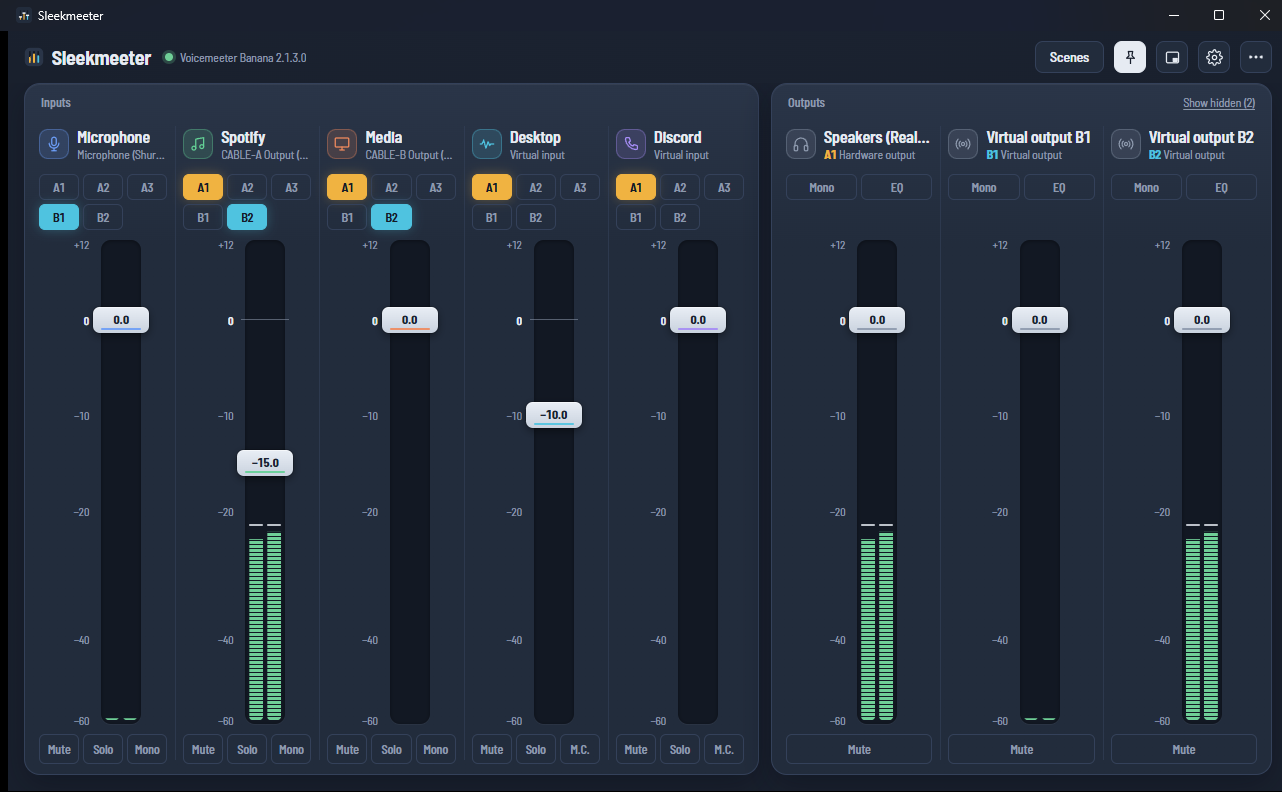
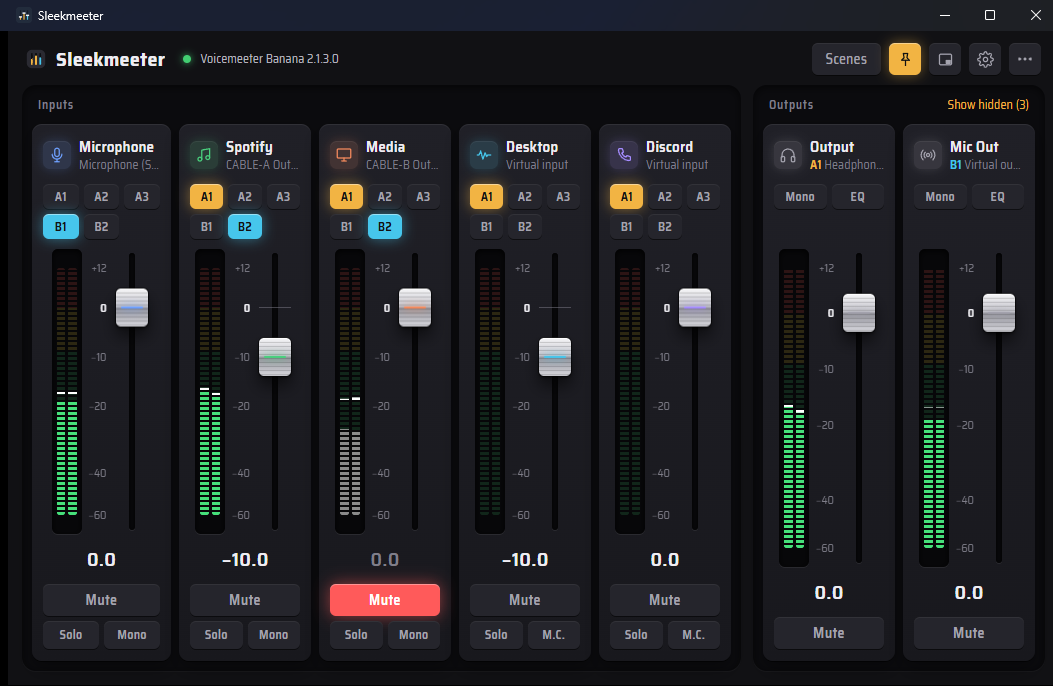
README: new screenshots of the Console look, mini mode and OLED
Claude-Session: https://claude.ai/code/session_01CauzMqJMztpKQTnZzufjxf

diff --git a/README.md b/README.md
@@ -2,11 +2,11 @@
 
 A modern face for Voicemeeter Standard, Banana and Potato. Sleekmeeter sits on top of Voicemeeter and controls it through the official Voicemeeter Remote API — Voicemeeter keeps doing the audio, Sleekmeeter is just a nicer mixer to look at and use.
 
-![Sleekmeeter's mixer: five input strips and three outputs, each fader doubling as a level meter](docs/screenshots/mixer.png)
+![Sleekmeeter's mixer: five input channels and two outputs, each with an LED meter, a metal fader cap and lit routing buttons](docs/screenshots/mixer.png)
 
-**Tray volume panel:** double-click the tray icon for a compact panel with every channel, right above the tray.
+**Mini mode and the tray volume panel:** one slim row per channel, with a meter, a fader and a mute button. Double-click the tray icon to open it right above the tray.
 
-![The tray volume panel: one slim fader and mute button per channel](docs/screenshots/volume-panel.png)
+![Mini mode: one row per channel with an LED meter, a fader and a mute button](docs/screenshots/volume-panel.png)
 
 ## Requirements
 
@@ -40,6 +40,8 @@ If Voicemeeter isn't running, Sleekmeeter offers to start it. Closing the window
 Each strip is as wide as its name, so names show in full, and the input and output sections stay centred in the window. Click the dB readout under a fader to type an exact level.
 
 For OLED screens, turn on **Settings → Appearance → Pure black for OLED screens**. Everything that isn't information turns true black, including the tray panel and the volume overlay.
+
+![The mixer in pure black for OLED screens](docs/screenshots/oled.png)
 
 Meters show post-fader levels on the same scale as the fader, so you can see signal and fader position together. Everything stays in sync with Voicemeeter itself, MIDI controllers and other remote apps.
 
